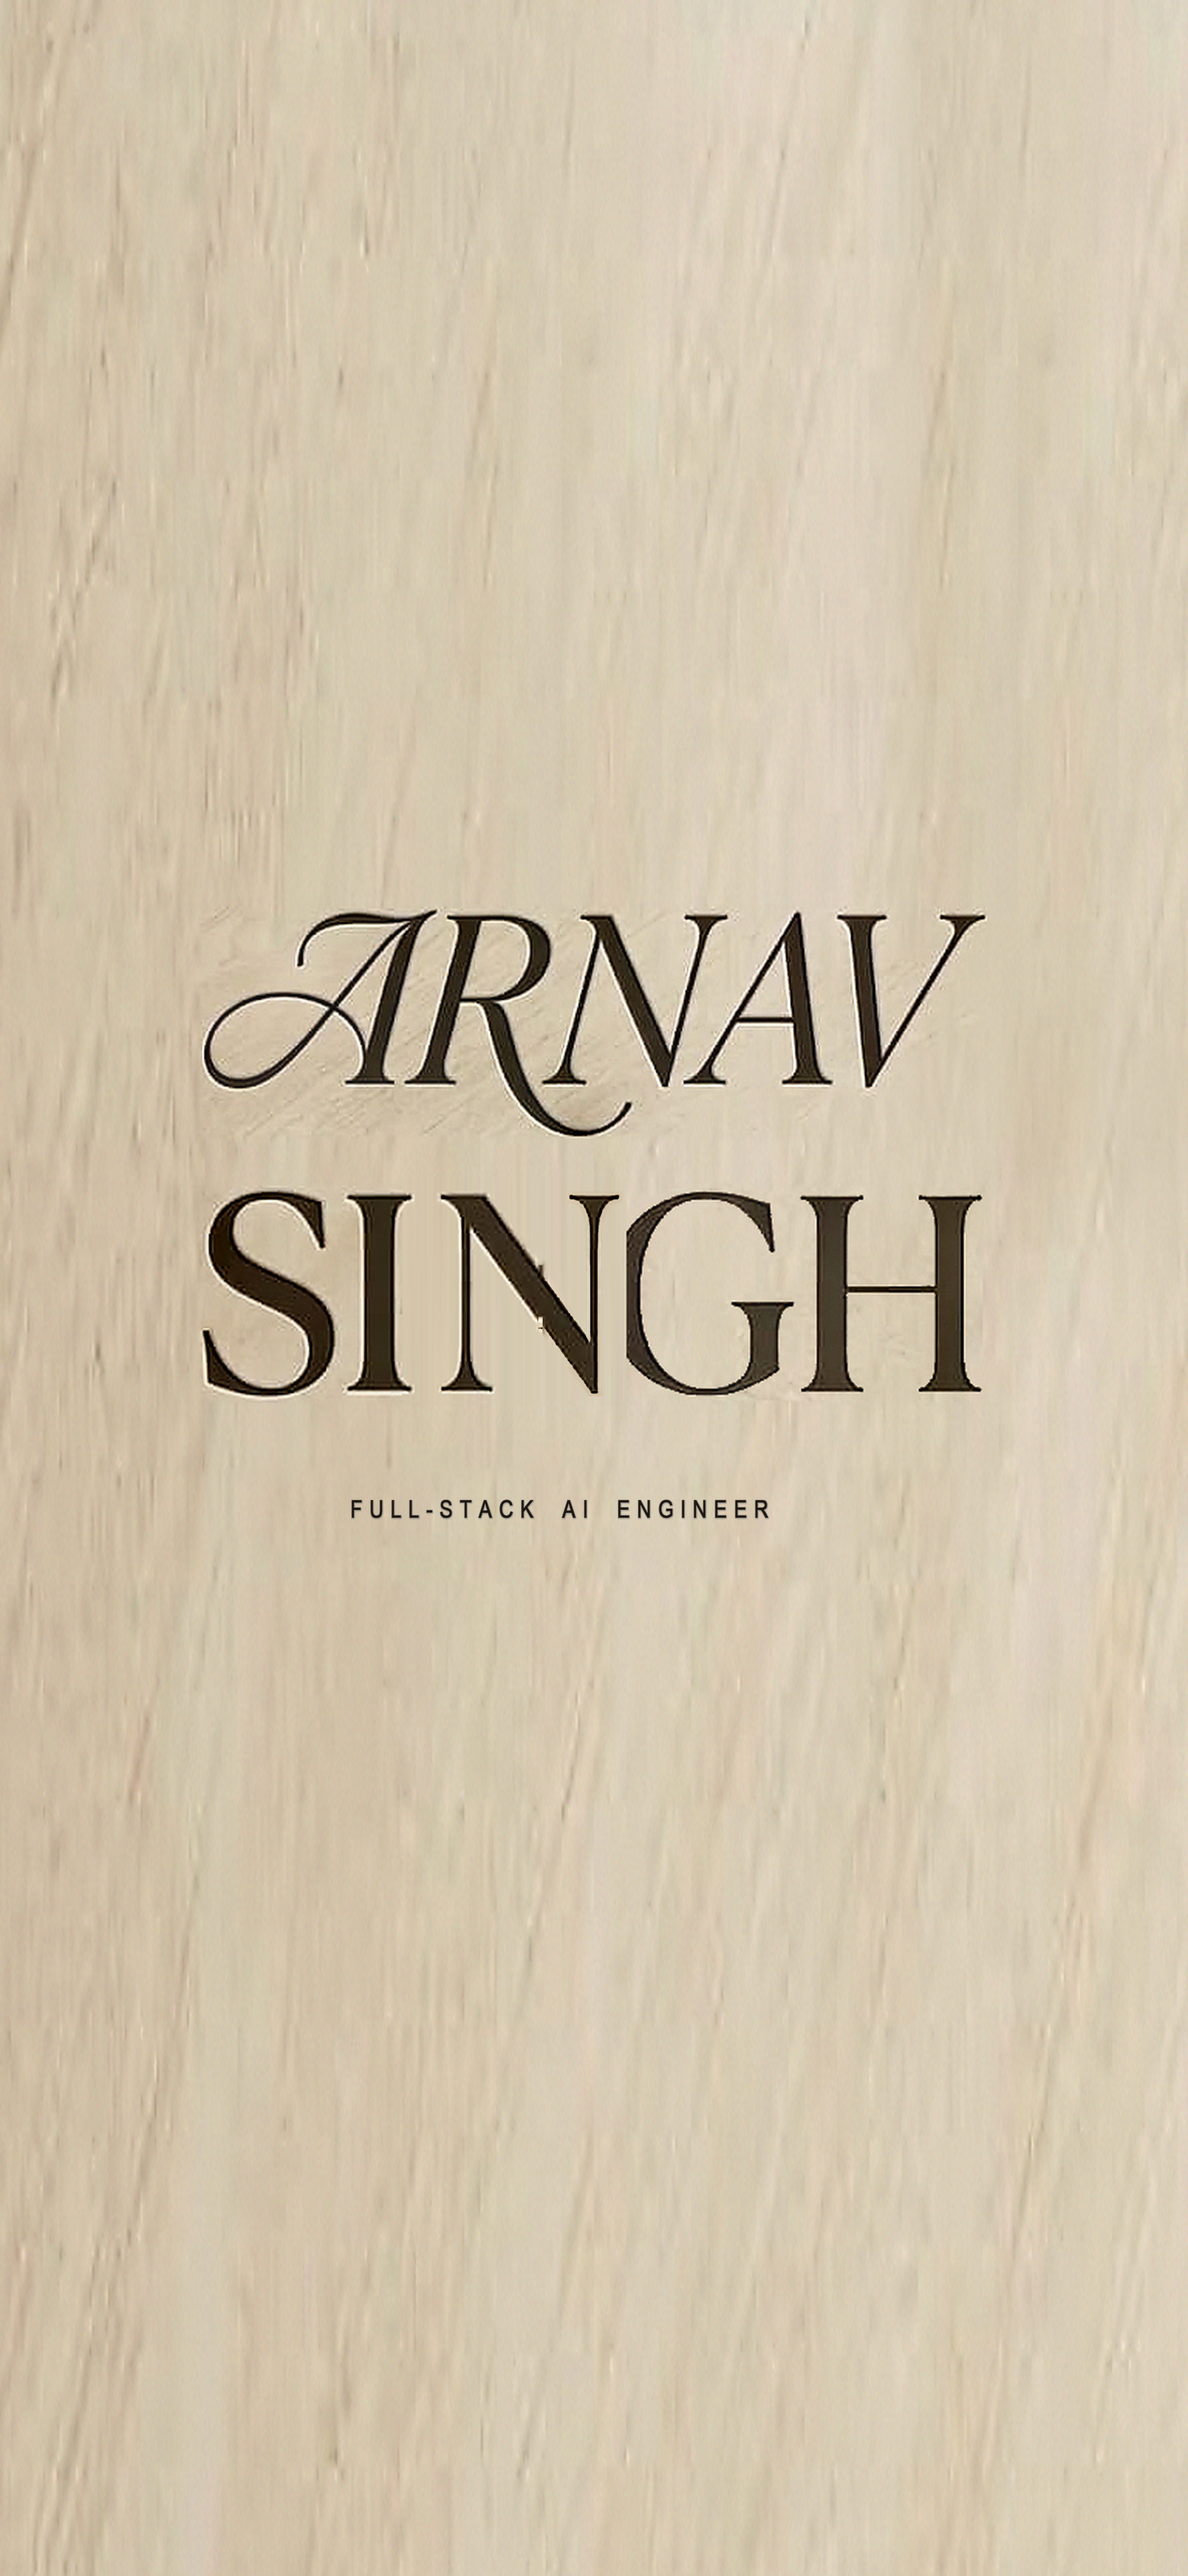
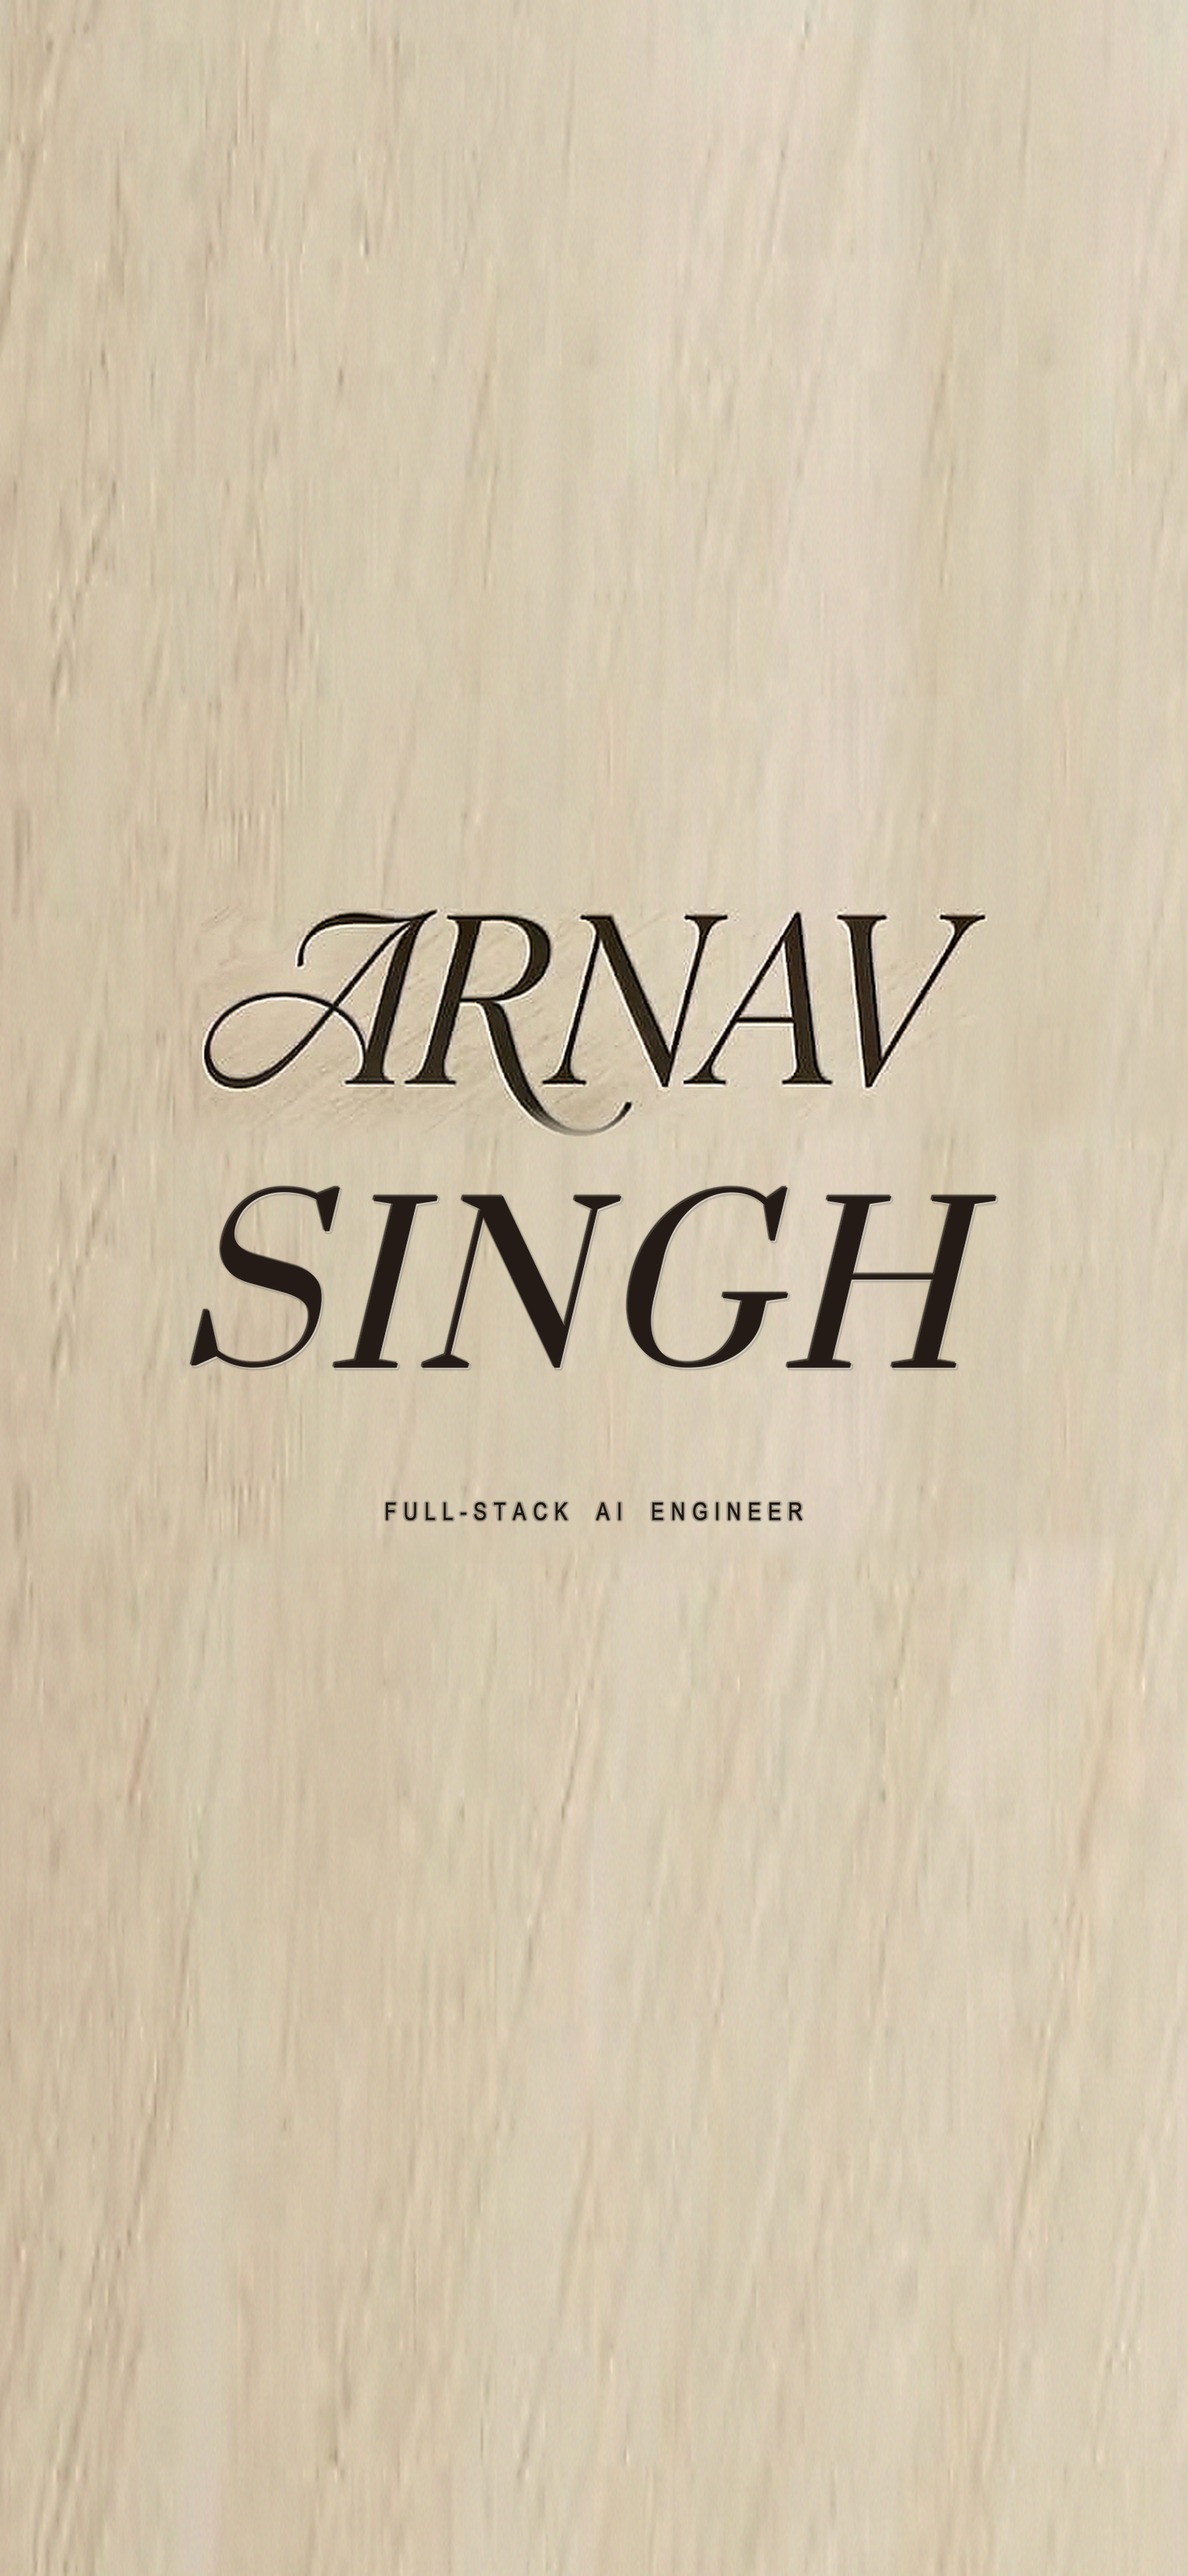
fix(mobile): match SINGH typography with ARNAV italic serif and resolve broken text glitches

Changed region(s): [[0.1562, 0.4375, 0.8125, 0.5938]]

diff --git a/src/components/HeroNameImage.tsx b/src/components/HeroNameImage.tsx
@@ -18,16 +18,16 @@ export default function HeroNameImage() {
         <picture className="hero-picture">
           <source
             media="(max-width: 768px)"
-            srcSet="/hero-name-mobile.webp?v=3"
+            srcSet="/hero-name-mobile.webp?v=4"
             type="image/webp"
           />
           <source
             media="(max-width: 768px)"
-            srcSet="/hero-name-mobile.png?v=3"
+            srcSet="/hero-name-mobile.png?v=4"
             type="image/png"
           />
           <img
-            src="/hero-name.png?v=3"
+            src="/hero-name.png?v=4"
             alt="Arnav Singh — Full-Stack AI Engineer"
             className="hero-image"
           />
